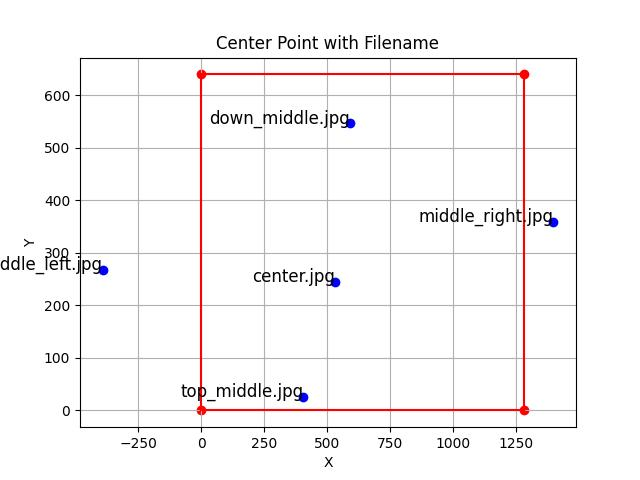
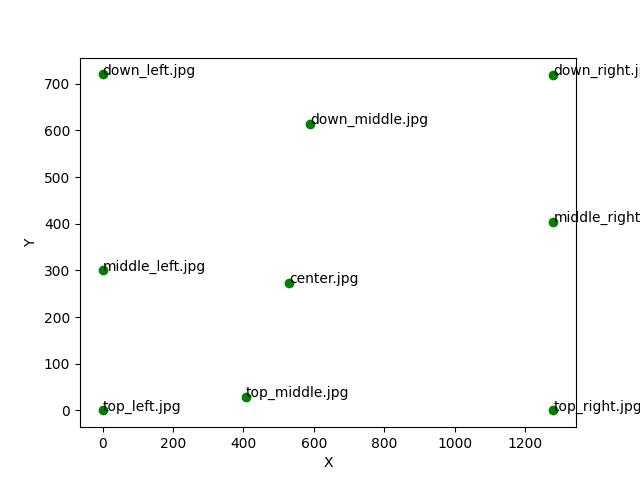
ファイル書式修正

diff --git a/backend/ax_gaze_estimation.py b/backend/ax_gaze_estimation.py
@@ -1,11 +1,74 @@
+import os
 import numpy as np
 import cv2
+from contextlib import contextmanager
 from typing import List, Tuple
 from eye_points_estimation import calculate_gaze_point, initialize_gaze_estimator, fetch_eye_locations_from_image
 import ax_gaze_estimation_utils as gut
-
+import logging
+import time
+import matplotlib.pyplot as plt
+logging.basicConfig(level=logging.INFO)
 # 設定のdefault値
 default_estimator_setting = initialize_gaze_estimator()
+
+
+@contextmanager
+def time_execution(msg):
+    start = time.perf_counter()
+    yield
+    logging.debug(f'{msg} {(time.perf_counter() - start) * 1000:.0f} ms')
+
+
+def draw(img, gazes, gaze_centers, eyes_iris=None, hps=None, roi_centers=None, draw_iris=False,
+         draw_head_pose=False, horizontal_flip=False):
+    """Draw the gaze(s) and landmarks (and head pose(s)) on the image.
+
+    Regarding the head pose(s), (person POV) the axes correspond to
+    x (blue) oriented positively to the left, y (green) oriented positively
+    to the bottom and z (red) oriented positively to the back.
+
+    Parameters
+    ----------
+    img : NumPy array
+        The image to draw on (BGR channels).
+    gazes : NumPy array
+        The gaze(s) to draw.
+    gaze_centers : NumPy array
+        The centers of origin of the gaze(s).
+    eyes_iris : NumPy array, optional
+        The eye-region and iris landmarks to draw.
+    hps : NumPy array, optional
+        The head pose(s) to draw.
+    roi_centers : NumPy array, optional
+        The center(s) of origin of the head pose(s).
+    draw_iris : bool, optional
+        Whether to draw the iris landmarks or not.
+    draw_head_pose : bool, optional
+        Whether to draw the head pose(s) or not.
+    horizontal_flip : bool, optional
+        Whether to consider a horizontally flipped image for drawing.
+
+    Returns
+    -------
+    img_draw : NumPy array
+        Image with the gaze(s) and landmarks (and head pose(s)) drawn on it.
+    """
+    with time_execution('\t\tDrawing'):
+        img_draw = img.copy()
+        if eyes_iris is not None and draw_iris:
+            eyes, iris = eyes_iris
+            for i in range(len(eyes)):
+                gut.draw_eye_iris(
+                    img_draw, eyes[i, :, :16, :2], iris[i, :, :, :2], size=1
+                )
+        if horizontal_flip:
+            img_draw = np.ascontiguousarray(img_draw[:, ::-1])
+        if hps is not None and roi_centers is not None and draw_head_pose:
+            gut.draw_head_poses(img_draw, hps, roi_centers, horizontal_flip=horizontal_flip)
+        gut.draw_gazes(img_draw, gazes, gaze_centers, horizontal_flip=horizontal_flip)
+
+    return img_draw
 
 
 def predict_gaze(img: np.ndarray, estimator_data: dict = default_estimator_setting, gazes_only=True):
@@ -92,7 +155,7 @@ def predict_gaze(img: np.ndarray, estimator_data: dict = default_estimator_setti
         gaze_estimator.update()
         gazes = gaze_estimator.get_results()[0]
         gazes_vec = gut.gaze_postprocess(gazes, face_affs)
-        print("gazes_vec", gazes_vec)
+        logging.info(f"gazes_vec:{gazes_vec}")
     if gazes_only:
         return gazes_vec
     else:
@@ -131,12 +194,11 @@ def calibrate(calibration_images: List[np.ndarray], screen_positions: List[Tuple
     # 各視線ベクトルと視線の原点から視点座標を計算
     gaze_points = []
     for gaze_vec, gaze_center in zip(gaze_vectors, gaze_centers):
-        print(gaze_center, gaze_vec)
         gaze_point = calculate_gaze_point(gaze_center, gaze_vec)
         gaze_points.append(gaze_point)
     # 推定された視点座標と実際のスクリーン位置から射影変換を計算
-    src_points = np.float32(gaze_points)
-    dst_points = np.float32(screen_positions)
+    src_points = np.array(gaze_points, dtype=np.float32)
+    dst_points = np.array(screen_positions, dtype=np.float32)
     # 射影変換行列を計算
     M = cv2.getPerspectiveTransform(src_points, dst_points)
     return M
@@ -155,14 +217,15 @@ def infer_gaze_position(image: np.ndarray, screen_size: Tuple[int, int], M: np.n
     Returns:
     screen_position (Tuple[int, int]): 推定されたスクリーン上の位置（x, y）。
     """
-    if estimator_data['calibration_result'] is None:
-        raise ValueError("キャリブレーションが実行されていません。")
     # 視線ベクトルを推定
     preds = predict_gaze(image, estimator_data, gazes_only=False)
     if preds[0] is not None:
         gaze_vec = preds[0][0]  # 画像内の顔が1つであると仮定
-        gaze_center = preds[1][0]
+        local_left_eye_center, local_right_eye_center = fetch_eye_locations_from_image(image)
+        gaze_center = (local_left_eye_center + local_right_eye_center) / 2
         # 視点座標を計算
+        logging.info(f"gaze_center:{gaze_center}")
+        logging.info(f"gaze_vec:{gaze_vec}")
         gaze_point = calculate_gaze_point(gaze_center, gaze_vec)
         # 変換行列を視点座標に適用
         gaze_point_homogeneous = np.array([gaze_point[0], gaze_point[1], 1.0], dtype=np.float32)
@@ -196,7 +259,7 @@ def draw_gaze_vector(image: np.ndarray, estimator_data: dict = default_estimator
     if preds[0] is not None:
         img_draw = image.copy()
         gazes, gaze_centers, eyes_iris, hps, roi_centers = preds
-        img_draw = gut.draw(
+        img_draw = draw(
             img_draw, gazes, gaze_centers, eyes_iris=eyes_iris, hps=hps, roi_centers=roi_centers,
             draw_iris=True, draw_head_pose=True, horizontal_flip=False
         )
@@ -215,6 +278,7 @@ if __name__ == '__main__':
     screen_positions = []  # それぞれの画像に対応するスクリーン上の位置
 
     # 例として画像を読み込む（実際にはフロントエンドからnp.ndarrayが渡される）
+    screen_positions = []
     for img_path, position in [
         ('backend/data/Images/FaceSamples/input/top_left.jpg', (0, 0)),
         ('backend/data/Images/FaceSamples/input/top_right.jpg', (1280, 0)),
@@ -227,30 +291,22 @@ if __name__ == '__main__':
 
     # キャリブレーションの実行
     M = calibrate(calibration_images, screen_positions)
-
-    # 推論の実行例（カメラの設定までは環境構築しておりません）
-    # 例としてカメラからのフレームを取得
-    cap = cv2.VideoCapture(0)
-    screen_size = (1280, 720)  # スクリーンのサイズ（幅、高さ）
-
-    while True:
-        ret, frame = cap.read()
-        if not ret:
-            break
-
+    screen_positions = []
+    for img_path in os.listdir('backend/data/Images/FaceSamples/input'):
+        img = cv2.imread(f'backend/data/Images/FaceSamples/input/{img_path}')
         # 視線位置を推定
-        screen_position = infer_gaze_position(frame, screen_size, M)
-        if screen_position is not None:
-            # スクリーン上に視線位置を表示するなどの処理
-            print(f"視線位置: {screen_position}")
-
-        # 視線ベクトルを描画
-        frame_with_gaze = draw_gaze_vector(frame)
-
-        # フレームを表示
-        cv2.imshow('Gaze Estimation', frame_with_gaze)
-        if cv2.waitKey(1) & 0xFF == ord('q'):
-            break
-
-    cap.release()
-    cv2.destroyAllWindows()
+        screen_position = infer_gaze_position(img, (1280, 720), M)
+        screen_positions.append((screen_position, img_path))
+        logging.info(screen_position)
+        # 視線結果を描く
+        img = draw_gaze_vector(img)
+        os.makedirs('backend/data/Images/FaceSamples/with_gaze', exist_ok=True)
+        cv2.imwrite(f'backend/data/Images/FaceSamples/with_gaze/{img_path.replace(".jpg", "_res.jpg")}', img)
+        logging.info(f"___________end of {img_path}_______________")
+    # 結果を描画
+    plt.xlabel('X')
+    plt.ylabel('Y')
+    for position, img_path in screen_positions:
+        plt.plot(position[0], position[1], 'go')
+        plt.text(position[0], position[1], img_path)
+    plt.savefig('backend/data/Images/FaceSamples/result/gaze_point.jpg')

diff --git a/backend/eye_points_estimation.py b/backend/eye_points_estimation.py
@@ -3,10 +3,8 @@ import numpy as np
 import dlib
 from typing import Tuple
 import ailia
-from utils.model_utils import check_and_download_models
-FACE_DET_MODEL_NAME = 'blazeface'
-FACE_LM_MODEL_NAME = 'facemesh'
-IRIS_LM_MODEL_NAME = 'iris'
+from logging import getLogger
+logger = getLogger(__name__)
 PREDICTOR_PATH = "backend/data/params/shape_predictor_68_face_landmarks.dat"
 CAMERA_CALIB_PATH = "backend/data/params/cameraCalib.xml"
 FACE_PATH = "backend/data/params/faceModelGeneric.txt"
@@ -20,11 +18,6 @@ HEAD_POSE_MODEL_PATH = 'backend/data/models/hopenet_robust_alpha1.opt.onnx.proto
 HEAD_POSE_WEIGHT_PATH = 'backend/data/models/hopenet_robust_alpha1.opt.onnx'
 GAZE_MODEL_PATH = 'backend/data/models/ax_gaze_estimation.opt.obf.onnx.prototxt'
 GAZE_WEIGHT_PATH = 'backend/data/models/ax_gaze_estimation.opt.obf.onnx'
-FACE_DET_REMOTE_PATH = f'https://storage.googleapis.com/ailia-models/{FACE_DET_MODEL_NAME}/'
-FACE_LM_REMOTE_PATH = f'https://storage.googleapis.com/ailia-models/{FACE_LM_MODEL_NAME}/'
-IRIS_LM_REMOTE_PATH = f'https://storage.googleapis.com/ailia-models/mediapipe_{IRIS_LM_MODEL_NAME}/'
-HEAD_POSE_REMOTE_PATH = f'https://storage.googleapis.com/ailia-models/hopenet/'
-GAZE_REMOTE_PATH = f'https://storage.googleapis.com/ailia-models/ax_gaze_estimation/'
 fx, fy, cx, cy = 960, 960, 640, 360  # カメラの焦点距離（fx, fy）と中心点（cx, cy）
 # 顔検出モデルと顔の特徴点予測モデルを取得
 detector = dlib.get_frontal_face_detector()
@@ -106,8 +99,6 @@ def estimate_head_pose(landmarks: np.ndarray, face_points: np.ndarray, iterate=T
     _, rvec, tvec = cv2.solvePnP(face_points, landmarks, camera_matrix, camera_distortion, flags=cv2.SOLVEPNP_EPNP)
     if iterate:
         _, rvec, tvec = cv2.solvePnP(face_points, landmarks, camera_matrix, camera_distortion, rvec, tvec, True)
-    print("rvec:", rvec)
-    print("tvec:", tvec)
 
     return rvec, tvec
 
@@ -155,8 +146,8 @@ def fetch_eye_locations_from_image(img: np.ndarray) -> Tuple[np.ndarray, np.ndar
     local_right_eye_center, local_left_eye_center = estimate_eye_location(hr, ht)  # グローバルカメラから見たときの[img_warped,hr_norm,gc_normalized](gc_normalizedはgc参照で算出したものなのであてにならない)
 
     # 両目の中心（３D）を計算
-    print("Right eye center(local):", local_right_eye_center)
-    print("Left eye center(local):", local_left_eye_center)
+    logger.info(f"Right eye center(local):{local_right_eye_center}")
+    logger.info(f"Left eye center(local):{local_left_eye_center}")
     return local_left_eye_center, local_right_eye_center
 
 
@@ -199,23 +190,6 @@ def initialize_gaze_estimator(include_iris=False, include_head_pose=False, env_i
     estimator_data : dict
         モデルや設定を含む辞書。
     """
-    check_and_download_models(
-        FACE_DET_WEIGHT_PATH, FACE_DET_MODEL_PATH, FACE_DET_REMOTE_PATH
-    )
-    check_and_download_models(
-        FACE_LM_WEIGHT_PATH, FACE_LM_MODEL_PATH, FACE_LM_REMOTE_PATH
-    )
-    check_and_download_models(
-        GAZE_WEIGHT_PATH, GAZE_MODEL_PATH, GAZE_REMOTE_PATH
-    )
-    if include_iris:
-        check_and_download_models(
-            IRIS_LM_WEIGHT_PATH, IRIS_LM_MODEL_PATH, IRIS_LM_REMOTE_PATH
-        )
-    if include_head_pose:
-        check_and_download_models(
-            HEAD_POSE_WEIGHT_PATH, HEAD_POSE_MODEL_PATH, HEAD_POSE_REMOTE_PATH
-        )
     estimator_data = {}
     estimator_data['include_iris'] = include_iris
     estimator_data['include_head_pose'] = include_head_pose
